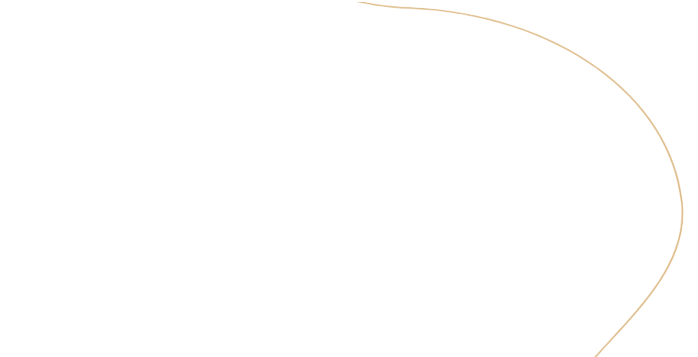
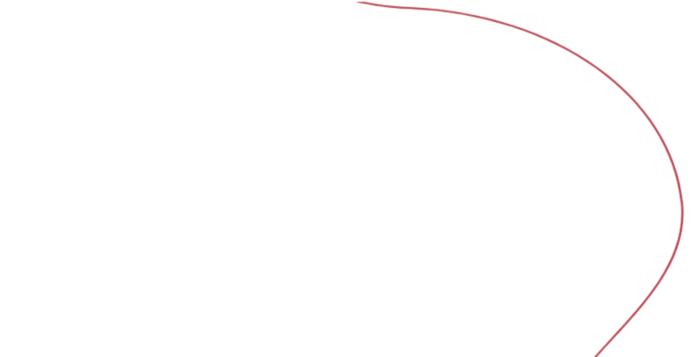
Add files via upload

diff --git a/index.html b/index.html
@@ -7,7 +7,7 @@
     <link rel="stylesheet" href="style.css">
     <link rel="stylesheet" href="https://cdn.jsdelivr.net/npm/swiper@9/swiper-bundle.min.css" />
     <link href="https://fonts.cdnfonts.com/css/avenir" rel="stylesheet">
-    <script src="https://kit.fontawesome.com/e2bce648c2.js" crossorigin="hurphygames"></script>
+<script src="https://kit.fontawesome.com/607e4879ac.js" crossorigin="anonymous"></script>
     <link rel="apple-touch-icon" sizes="57x57" href="/apple-icon-57x57.png">
     <link rel="apple-touch-icon" sizes="60x60" href="/apple-icon-60x60.png">
     <link rel="apple-touch-icon" sizes="72x72" href="/apple-icon-72x72.png">
@@ -28,16 +28,10 @@
 </head>
 <body>
 
-    <nav>
-        <div class="container">
-            <div class="nav-container">
-                <div class="nav-logo">
-                    <a href="index.html"><img width="200px" src="img/logo.png" alt="logo"></a>
-                </div>
-                
-            </div>
-        </div>
-    </nav>
+    <div class="nav-logo">
+        <a href="index.html"><img width="200px" src="img/logo.png" alt="logo"></a>
+    </div>
+   
     <div class="container swiper-setting">
         <div class="swiper mySwiper">
             <div class="swiper-wrapper">
@@ -47,9 +41,8 @@
                     </div>
                     <div class="slider-text">
                         <div class="text-head">
-                            <b>Uzun Dönem</b>
+                            <b>Uzun Dönem Araç Kiralama</b>
                         </div>
-                        <div class="text-alt">Araç Kiralama</div>
                     </div>
                 </div>
     
@@ -59,9 +52,8 @@
                     </div>
                     <div class="slider-text">
                         <div class="text-head">
-                            <b>Projeye Özel</b>
+                            <b>Projeye Özel Araç Kiralama</b>
                         </div>
-                        <div class="text-alt">Araç Kiralama</div>
                     </div>
                 </div>
     
@@ -71,9 +63,8 @@
                     </div>
                     <div class="slider-text">
                         <div class="text-head">
-                            <b>VIP</b>
+                            <b>VIP Araç Kiralama</b>
                         </div>
-                        <div class="text-alt">Araç Kiralama</div>
                     </div>
                 </div>
     
@@ -83,9 +74,8 @@
                     </div>
                     <div class="slider-text">
                         <div class="text-head">
-                            <b>Turizm</b>
+                            <b>Turizm Taşımacılığı</b>
                         </div>
-                        <div class="text-alt">Taşımacılığı</div>
                     </div>
                 </div>
     
@@ -95,9 +85,8 @@
                     </div>
                     <div class="slider-text">
                         <div class="text-head">
-                            <b>Personel</b>
+                            <b>Personel Taşımacılığı</b>
                         </div>
-                        <div class="text-alt">Servis Taşımacılığı</div>
                     </div>
                 </div>
     
@@ -107,9 +96,8 @@
                     </div>
                     <div class="slider-text">
                         <div class="text-head">
-                            <b>Öğrenci</b>
+                            <b>Öğrenci Taşımacılığı</b>
                         </div>
-                        <div class="text-alt">Servis Taşımacılığı</div>
                     </div>
                 </div>
     
@@ -121,12 +109,12 @@
                         <div class="text-head">
                             <b>İnşaat</b>
                         </div>
-                        <div class="text-alt"></div>
                     </div>
                 </div>
             </div>
         </div>
     </div>
+
 
 
     <div class="container">
@@ -139,7 +127,7 @@
                 hizmet yelpazesi ile sektördeki yerini güçlendirmiştir. Yılların getirdiği deneyim ve uzmanlıkla, müşteri memnuniyetini
                 ön planda tutarak çeşitli alanlarda faaliyet göstermekteyiz.
                 <br><br>
-                ALMİLA GRUP olarak, uzun dönem araç kiralamadan VIP araç kiralamaya, turizm taşımacılığından öğrenci servis
+                ALMİLA GRUP olarak, uzun dönem araç kiralamadan VIP araç kiralamaya, turizm taşımacılığından öğrenci
                 taşımacılığına kadar geniş bir hizmet yelpazesi sunuyoruz. İnşaat sektöründe de kapsamlı hizmetler sağlayarak
                 projelerinizi başarıyla tamamlamanıza yardımcı oluyoruz. Ayrıca, Antalya ve Çorum'da şubelerimizle hizmetlerimizi daha
                 geniş bir coğrafyada sunmaktayız.
@@ -296,31 +284,32 @@
         </div>
 
         <div class="container about-div">
+            <div style="color: #f32d37; font-size: 42px;" class="about-div-head">
+                Bize Ulaşın
+            </div>
             <div class="about-text-container2">
-                <div style="color: #fff; font-size: 42px;" class="about-div-head">
-                    Bize <b>Ulaşın</b>
-                </div>
+                
                 <div class="about-div-alt">
+                    <a href="tel:08508880999">
+                    <i class="fa-solid fa-phone"></i><br><br>
+                    0 850 888 0 999
+                    </a>
+
+
                     <a href="https://goo.gl/maps/oY3Eq7V8imSnxJi98" target="_blank">
+                        <i class="fa-solid fa-location-dot"></i><br><br>
                         Mustafa Kemal Mahallesi 2125. Sokak Kolbay İş Merkezi No: 6A/4 Çankaya - ANKARA
-                    </a><br><br>
+                    </a>
 
-                    <a href="tel:08508880999">0 850 888 0 999</a><br><br>
+                    
 
-                    <a href="mailto:info@almilagrup.com.tr">info@almilagrup.com.tr</a>
+                    <a href="mailto:info@almilagrup.com.tr">
+                        <i class="fa-solid fa-envelope"></i><br><br>
+                        info@almilagrup.com.tr
+                    </a>
                 </div>
             </div>
-            <div>
-                <div style="position: relative; left: 100px;" class="about-div-head">
-                    İLETİŞİM
-                </div>
-                <div class="about-img-container map">
-                    <iframe
-                        src="https://www.google.com/maps/embed?pb=!1m18!1m12!1m3!1d3060.2873925828962!2d32.766329799999994!3d39.91258429999999!2m3!1f0!2f0!3f0!3m2!1i1024!2i768!4f13.1!3m3!1m2!1s0x14d3462a5d7dd281%3A0x98cf12e1dc7b0d10!2sALM%C4%B0LA%20GRUP!5e0!3m2!1str!2str!4v1726568410587!5m2!1str!2str"
-                        width="100%" height="350px" style="border:0;" allowfullscreen="" loading="lazy"
-                        referrerpolicy="no-referrer-when-downgrade"></iframe>
-                </div>
-            </div>
+            
         </div>
 
 

diff --git a/style.css b/style.css
@@ -2,7 +2,7 @@
     box-sizing: border-box;
     margin: 0;
     padding: 0;
-    font-family: 'Calibri', sans-serif !important;
+    
 }
 
 @font-face {
@@ -29,7 +29,7 @@ nav {
     z-index: 999;
     width: 100%;
     padding: 15px;
-    background: #000;
+    
     min-width: 1200px;
 }
 
@@ -94,7 +94,17 @@ nav {
     background: linear-gradient(to bottom, #000000e4 0%, #00000022);
 
 }
+.nav-logo {
+    position: absolute;
+    top: 30%;
+    left: 50%;
+    transform: translate(-50%, -50%);
+    z-index: 999;
+}
 
+.nav-logo img {
+    width: 250px;
+}
 .mySwiper {
     box-shadow: 0 0 100px #000;
 }
@@ -143,7 +153,7 @@ nav {
     flex-direction: column;
     padding: 25px 0;
     box-shadow: 0 0 100px #000;
-    background-image: url("img/bgef.png");
+    background-image: url("https://gcdn.bionluk.com/uploads/message/21a94c4b-2b44-4bf7-8961-41c2089ba51c.jpg");
     background-position: 80%;
     background-repeat: no-repeat;
     z-index: 3;
@@ -157,7 +167,7 @@ nav {
     height: 100%;
    
     width: 100%;
-    background-image: url("img/bgef.png");
+    background-image: url("https://gcdn.bionluk.com/uploads/message/21a94c4b-2b44-4bf7-8961-41c2089ba51c.jpg");
     background-position: 53%;
     background-repeat: no-repeat;
     opacity: 0.1;
@@ -165,7 +175,7 @@ nav {
 }
 
 .about-header {
-    color: #E1C193;
+    color: #f32d37;
     font-size: 22px;
     padding: 15px 0;
 }
@@ -185,7 +195,7 @@ nav {
     width: 100%;
     text-align: center;
     font-size: 22px;
-    color: #E1C193;
+    color: #f32d37;
     background: #1A1A1A;
     z-index: 2;
 
@@ -230,7 +240,7 @@ nav {
     position: absolute;
     top: 20px;
     left: -30px;
-    border: 5px solid #E5C496;
+    border: 5px solid #f32d37;
     width: 100%;
     height: 100%;
     z-index: -1;
@@ -242,26 +252,32 @@ nav {
     position: relative;
     top: 0px;
     margin-left: 22px;
+   
 }
 
 .project-slider-container {
     display: flex !important;
     justify-content: start !important;
     align-items: start !important;
-    height: 520px;
+    
 }
 
 .slider-p {
     display: flex !important;
-    align-items: start !important;
+    align-items: center !important;
+    flex-direction: column !important;
     justify-content: center;
+    gap: 50px;
     background: #1A1A1A;
     box-shadow: 0px 0px 0px transparent !important;
 }
-
+.items{
+    padding-bottom: 50px;
+}
 .items-header {
     font-size: 48px;
     text-align: left;
+    
 }
 
 .list-header {
@@ -304,7 +320,7 @@ li{
 
 :root {
     --swiper-navigation-size: 25px !important;
-    --swiper-pagination-color: #E1C193;
+    --swiper-pagination-color: #f32d37;
     --swiper-pagination-bullet-size: 8px;
     --swiper-pagination-bullet-width: 8px;
     --swiper-pagination-bullet-height: 8px;
@@ -368,7 +384,7 @@ li{
 }
 
 .box:hover {
-    box-shadow: 0 0 35px #E1C193;
+    box-shadow: 0 0 35px #f32d37;
 }
 
 .box img {
@@ -376,7 +392,7 @@ li{
 }
 
 footer {
-    border-top: 5px solid #E1C193;
+    border-top: 5px solid #f32d37;
     padding: 40px;
 }
 
@@ -455,7 +471,7 @@ footer {
 
 .about-div-head{
     font-size: 26px;
-    color: #E1C193;
+    color: #f32d37;
     padding: 10px 0;
 }
 .map{
@@ -470,10 +486,14 @@ footer {
 }
 .about-div {
     display: flex;
-    align-items: center;
-    justify-content: center;
+    align-items: start;
+    gap: 20px;
+    max-width: 1000px;
+    justify-content: start;
     height: 450px;
-    margin: 70px;
+    margin: 70px auto;
+    flex-direction: column;
+    width: 100%;
 }
 
 .bg-eff:nth-child(even){
@@ -494,21 +514,36 @@ footer {
     text-align: left;
     width: 400px;
 }
+.about-div-alt{
+    display: flex;
+    align-items: center;
+    gap: 10px;
+    width: 1000px;
+    justify-content: space-between;
+}
 .about-div-alt a{
     text-decoration: none;
     color: #fff;
+    width: 33.3%;
+    border: 2px solid #f32d37;
+    
+    padding: 20px;
+    text-align: center;
     transition: .3s ease;
+}
+.about-div-alt a i{
+    font-size: 22px;
 }
 .about-div-alt a:hover{
     text-decoration: underline;
-    color: #E1C193;
+    color: #f32d37;
 }
 .about-img-container::before {
     content: "";
     position: absolute;
     top: 20px;
     left: 30px;
-    border: 5px solid #E5C496;
+    border: 5px solid #f32d37;
     width: 100%;
     height: 95%;
     z-index: -1;
@@ -523,7 +558,7 @@ footer {
     position: absolute;
     top: 20px;
     left: -30px;
-    border: 5px solid #E5C496;
+    border: 5px solid #f32d37;
     width: 100%;
     height: 95%;
     z-index: -1;
